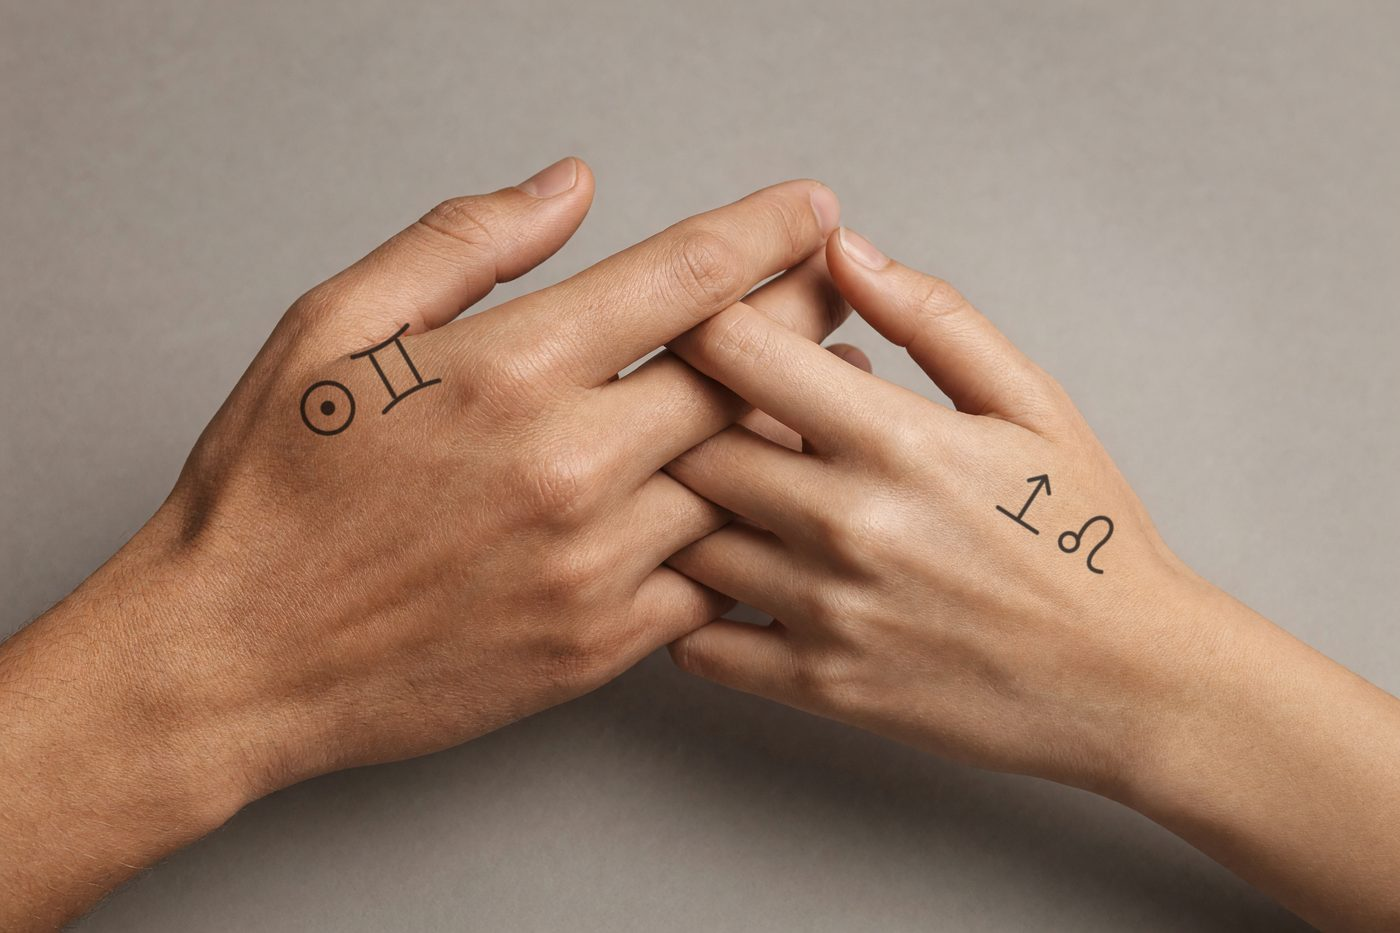
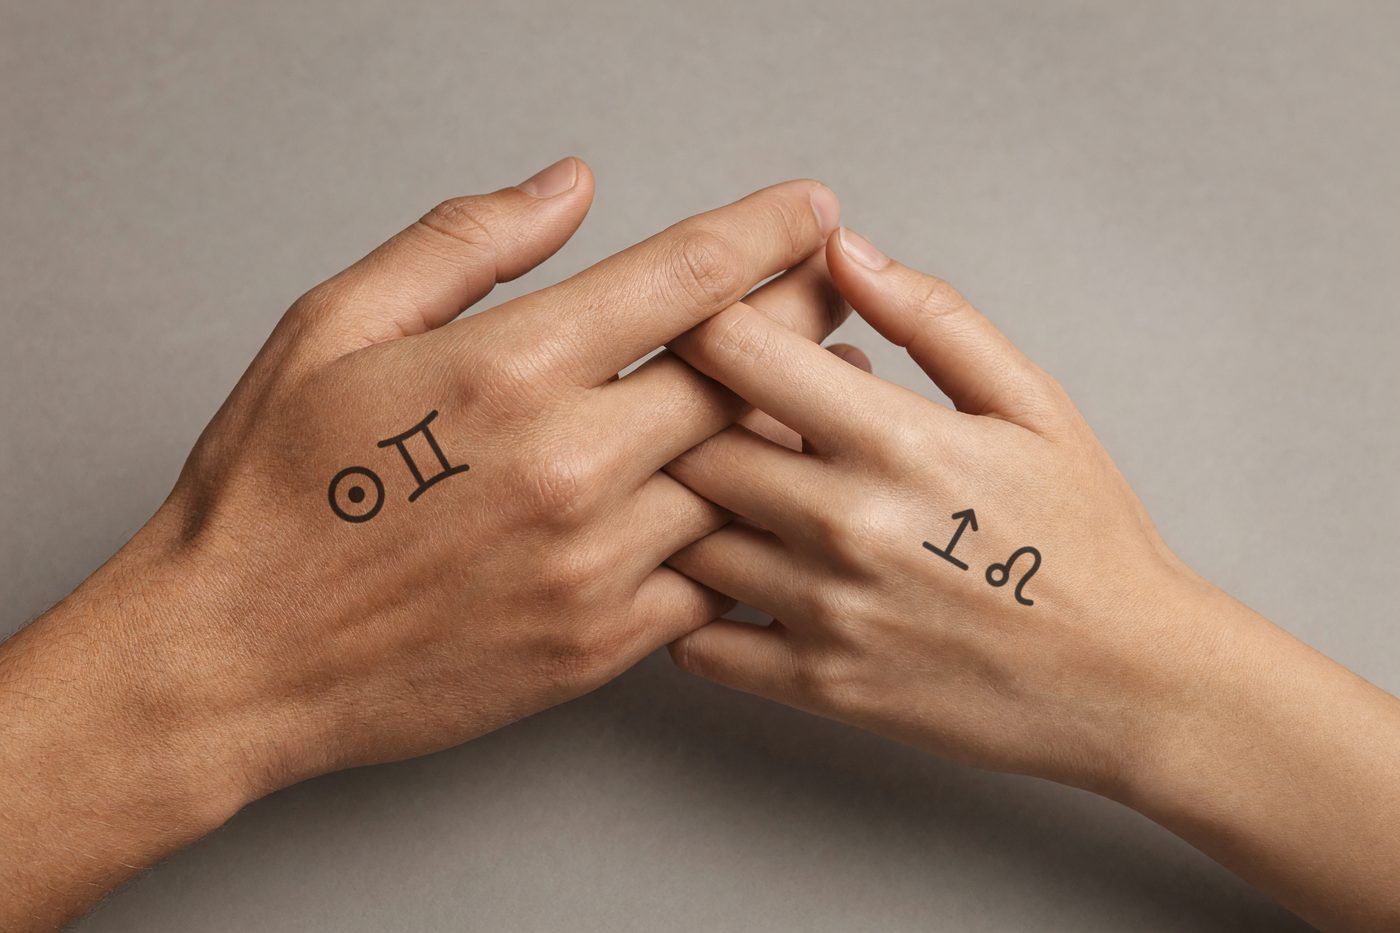
Exact neck and hand tattoo examples: composited designs, tattoos moved onto the back of the hands

Changed region(s): [[0.215, 0.3419, 0.3379, 0.5595], [0.6757, 0.5284, 0.7986, 0.6527], [0.7371, 0.4973, 0.7679, 0.5284]]

diff --git a/tools/higgsfield/tattoos.ts b/tools/higgsfield/tattoos.ts
@@ -28,12 +28,16 @@ const STUDIO = "Professional studio photograph, high-end editorial campaign for 
   "85 mm lens, shallow depth of field, crisp focus on the tattoo, natural skin texture with visible pores, " +
   "muted elegant colour grade, minimal styling, tasteful and non-sexual, no text, no logos, no watermark.";
 const TATTOO = "The tattoo is a healed black fine-line tattoo that reproduces the reference design exactly: " +
-  "same symbols, same proportions, same thin even lines, nothing added or removed, no shading, no colour.";
+  "same symbols, same proportions, the same bold, even line weight as the reference, nothing added or removed, no shading, no colour.";
 
 const SHOTS: Shot[] = [
   /* a clean plate for compositing: the exact designs are laid on afterwards (tools/higgsfield/composite-hands.py) */
   { id: "hands-plate", refs: [], aspect: "3:2",
     prompt: `Close-up of a couple holding hands, seen from above at a slight angle so the backs of both hands face the camera, fingers loosely interlaced. The man's RIGHT hand is on the left of the frame, the woman's LEFT hand is on the right; both thumbs relaxed and clearly visible, the soft area between thumb and index finger on the back of each hand clearly visible and unobstructed. No tattoos, no jewellery, clean bare skin. ${STUDIO}` },
+  { id: "neck-plate-man", refs: [], aspect: "3:4",
+    prompt: `The back of a man's neck and upper shoulders, head slightly bowed, short hair, smooth even skin on the back of the neck with plenty of bare skin, viewed straight on from behind. No tattoos, no jewellery, clean bare skin. ${STUDIO}` },
+  { id: "neck-plate-woman", refs: [], aspect: "3:4",
+    prompt: `Portrait of a woman seen from behind, hair gathered up in a low bun, wearing an elegant black silk dress with a low scooped back, the nape of her neck and upper back clearly visible, viewed straight on. No tattoos, no jewellery. ${STUDIO}` },
   { id: "wheel-calf-man", refs: ["design-1-natal-wheel.png"], aspect: "3:4",
     prompt: `${TATTOO} A man's lower leg seen from behind and slightly to the side, the round natal-wheel tattoo about 12 cm wide on the back of his calf, standing on a plinth, bare leg, neutral linen shorts just visible. ${STUDIO}` },
   { id: "wheel-forearm-woman", refs: ["design-1-natal-wheel.png"], aspect: "3:4",

diff --git a/tools/higgsfield/composite-neck.py b/tools/higgsfield/composite-neck.py
@@ -1,0 +1,47 @@
+"""Lays the exact STAROT one-line design (☉ sign · ↑ sign) onto clean Higgsfield neck plates.
+
+   python3 tools/higgsfield/composite-neck.py
+
+The image model keeps turning the ascendant arrow into ♐, so, as with the hands, the
+plates are bare skin and the real design file is inked on here. Same ink model as
+composite-hands.py: the design's alpha, softened, multiplied into the skin."""
+from pathlib import Path
+from PIL import Image, ImageFilter, ImageChops
+
+ROOT = Path(__file__).resolve().parents[2]
+RAW = ROOT / "media/gallery/raw"
+DES = ROOT / "media/designs"
+DESIGN = DES / "design-4-sun-and-rising-gemini-leo.png"
+
+# plate, output, centre (x, y), width in px (~3.5 cm on that neck), rotation in degrees
+PLACES = [
+    ("neck-plate-man-v13.png", "neck-composite-man.png", (895, 1370), 330, 0),
+    ("neck-plate-woman-clean.png", "neck-composite-woman.png", (890, 1175), 290, 0),
+]
+INK = (26, 28, 34)
+STRENGTH = 1.6
+OPACITY = 0.92
+
+def ink_layer(path, width, angle):
+    d = Image.open(path).convert("RGBA")
+    a = d.getchannel("A")
+    d = d.crop(a.getbbox())
+    h = round(d.height * width / d.width)
+    a = d.getchannel("A").resize((width, h), Image.LANCZOS)
+    a = a.rotate(angle, resample=Image.BICUBIC, expand=True)
+    a = a.filter(ImageFilter.GaussianBlur(0.9))
+    noise = Image.effect_noise(a.size, 22).filter(ImageFilter.GaussianBlur(1.2))
+    return ImageChops.multiply(a, noise.point(lambda v: 205 + v * 50 // 255))
+
+tint = tuple(min(255, round(c * STRENGTH)) for c in INK)
+for plate, out, (cx, cy), width, angle in PLACES:
+    if not (RAW / plate).exists():
+        continue
+    base = Image.open(RAW / plate).convert("RGB")
+    a = ink_layer(DESIGN, width, angle).point(lambda v: round(v * OPACITY))
+    x, y = cx - a.width // 2, cy - a.height // 2
+    region = base.crop((x, y, x + a.width, y + a.height))
+    inked = ImageChops.multiply(region, Image.new("RGB", a.size, tint))
+    base.paste(Image.composite(inked, region, a), (x, y))
+    base.save(RAW / out)
+    print(RAW / out)

diff --git a/tools/higgsfield/composite-hands.py b/tools/higgsfield/composite-hands.py
@@ -15,8 +15,8 @@ PLATE = RAW / "hands-plate-v10.png"
 
 # design file, centre (x, y), length in px (~3 cm on that hand), rotation in degrees (counter-clockwise)
 PLACES = [
-    ("design-2-sun-gemini.png", (650, 690), 250, 30),     # his right hand: ☉ by the wrist, ♊ towards the index finger
-    ("design-3-rising-leo.png", (1895, 925), 225, -33),   # her left hand: along her index finger
+    ("design-2-sun-gemini.png", (700, 845), 250, 30),     # his right hand: ☉ by the wrist, ♊ towards the index finger
+    ("design-3-rising-leo.png", (1765, 985), 225, -30),   # her left hand: along her index finger
 ]
 INK = (26, 28, 34)        # blue-black, the colour healed black ink settles to
 STRENGTH = 1.6            # how far the ink darkens the skin under it (lower = darker)

diff --git a/docs/MEDIA.md b/docs/MEDIA.md
@@ -39,7 +39,11 @@ saves the results in `media/gallery/raw/` (git-ignored) for review.
 Small symbols on hands are where the model fails most (it moves, resizes and redraws them).
 For those, generate a clean plate (`npm run tattoos -- hands-plate`) and lay the exact designs on
 with `python3 tools/higgsfield/composite-hands.py`: positions, size and angle are set in the
-script, and the ink is multiplied into the skin so its texture shows through. `npm run example` is the
+script, and the ink is multiplied into the skin so its texture shows through.
+The neck line goes the same way (`neck-plate-man`, then `python3 tools/higgsfield/composite-neck.py`),
+because the model keeps redrawing the ascendant ↑ as ♐. The woman's bare-back plate is refused by
+the moderation filter, so her plate is an earlier tattoo render with the AI tattoo patched out
+(`neck-plate-woman-clean.png`, a skin patch from just below, blended with OpenCV `seamlessClone`). `npm run example` is the
 Seedance 2.5 setup check. Every generation is billed to your Higgsfield credits.
 
 ## Prompts (for the Higgsfield website)
